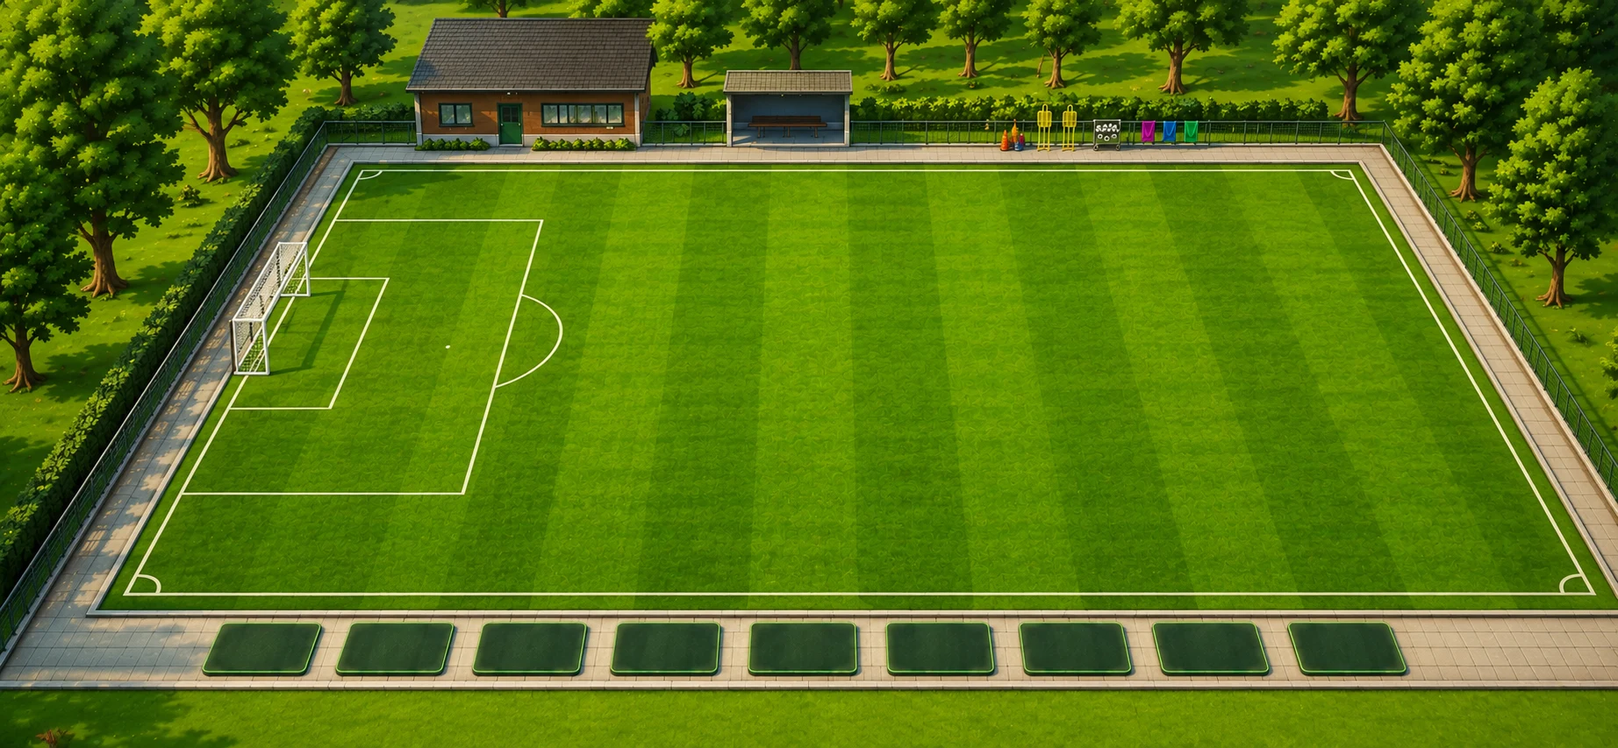
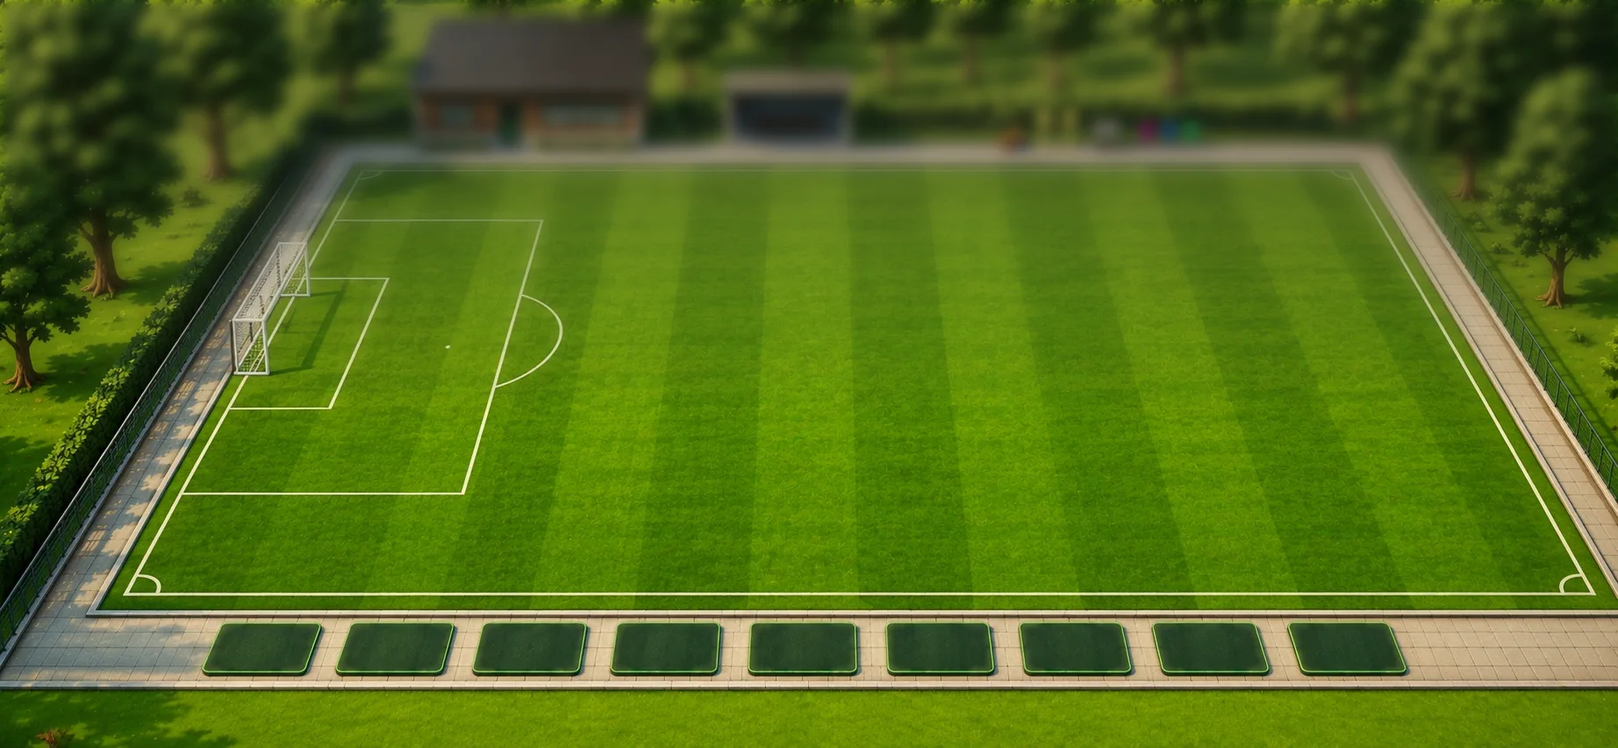
Phase 3 : la lumière — ombres de contact, éclairage du haut, décors reculés
(a) Les ombres de contact. L'ombre d'une silhouette est dense au point
d'appui et se dissout vite (une ombre uniforme fait flotter) et suit la
hauteur du joueur, donc ses étoiles. Elle reste un REPLI, qui disparaît
dès qu'une ombre en fichier existe.

    Leçon de mise en œuvre, attrapée par la recette : cette règle ne peut
    pas s'écrire en annulation après coup — la première règle plus
    spécifique ajoutée ailleurs la bat, et c'est exactement ce qui est
    arrivé en ajoutant l'ombre du décor peint (le joueur portait alors
    DEUX ombres). Elle s'écrit dans le sélecteur (:not(.avec-ombre)), et
    une recette vérifie qu'un joueur n'a jamais deux ombres au sol.
    Corollaire corrigé au passage : la sélection reste visible AU SOL dans
    les deux cas — liseré vert pour l'ombre dessinée, ombre qui s'allume
    en vert pour l'ombre de fichier.

(b) Une direction d'éclairage unique, du haut. Trois niveaux d'élévation
et trois seulement, en jetons de style (--elev-pose / --elev-panneau /
--elev-modale) plus une arête haute commune : un composant déclare son
niveau, il n'invente jamais son ombre. Un vide prend l'inverse (ombre
interne en haut, lumière en bas) : un emplacement libre se lit comme un
trou.

(c) Reculer les décors, sans flou en temps réel. Le décor occupant les
trois quarts de l'écran depuis la phase 1, un flou live y coûterait cher
sur mobile : flou, désaturation et assombrissement de la distance sont
[…]

Changed region(s): [[0.0, 0.0, 1.0, 0.4877], [0.0, 0.3962, 0.0309, 0.4267]]

diff --git a/partie.html b/partie.html
@@ -149,7 +149,7 @@
     #app.scene-pleine .col-classement .coach-ligne {
       background: linear-gradient(180deg, rgba(9, 20, 12, 0.86), rgba(5, 12, 7, 0.90));
       border: 1px solid rgba(160, 200, 168, 0.22); border-radius: 8px;
-      box-shadow: inset 0 1px 0 rgba(200, 240, 210, 0.14), 0 4px 12px rgba(0, 0, 0, 0.55);
+      box-shadow: var(--arete-haute), var(--elev-pose);
       backdrop-filter: blur(4px);
       text-shadow: 0 1px 3px rgba(0, 0, 0, 0.95);
     }
@@ -164,21 +164,31 @@
     #app.scene-pleine .col-synergies > button {
       background: linear-gradient(180deg, rgba(9, 20, 12, 0.88), rgba(5, 12, 7, 0.92)) !important;
       border: 1px solid rgba(160, 200, 168, 0.22) !important; border-radius: 999px !important;
-      box-shadow: inset 0 1px 0 rgba(200, 240, 210, 0.14), 0 3px 10px rgba(0, 0, 0, 0.5);
+      box-shadow: var(--arete-haute), var(--elev-pose);
       color: var(--craie-claire) !important; backdrop-filter: blur(4px);
     }
     .indice-synergies { color: var(--craie-sourde); font-size: 0.62rem; display: block; line-height: 1.35; }
     #app.scene-pleine .indice-synergies {
       background: linear-gradient(180deg, rgba(9, 20, 12, 0.86), rgba(5, 12, 7, 0.90));
       border: 1px solid rgba(160, 200, 168, 0.20); border-radius: 8px; padding: 5px 7px;
-      box-shadow: inset 0 1px 0 rgba(200, 240, 210, 0.12), 0 4px 12px rgba(0, 0, 0, 0.55);
+      box-shadow: var(--arete-haute), var(--elev-pose);
       backdrop-filter: blur(4px); text-shadow: 0 1px 3px rgba(0, 0, 0, 0.95);
     }
     #app.scene-pleine #page-staff {
       background: linear-gradient(180deg, rgba(9, 20, 12, 0.90), rgba(5, 12, 7, 0.93));
       border: 1px solid rgba(160, 200, 168, 0.20); border-radius: 10px; padding: 6px 7px;
-      box-shadow: inset 0 1px 0 rgba(200, 240, 210, 0.12), 0 6px 16px rgba(0, 0, 0, 0.6);
+      box-shadow: var(--arete-haute), var(--elev-panneau);
       backdrop-filter: blur(5px); max-height: 100%; overflow-y: auto;
+    }
+    /* LA VIGNETTE (phase 3, « reculer les décors ») : les bords du cadre
+       s'assombrissent doucement, le premier plan ressort. Un dégradé
+       radial statique — donc gratuit, contrairement à un flou en temps
+       réel sur les trois quarts de l'écran. Le flou et la désaturation de
+       la distance, eux, sont CUITS DANS LES IMAGES (design/terrains). */
+    #app.scene-pleine .plateau::after {
+      content: ""; position: absolute; inset: 0; pointer-events: none; z-index: 4;
+      background: radial-gradient(ellipse 96% 108% at 50% 62%,
+        rgba(0, 0, 0, 0) 52%, rgba(0, 0, 0, 0.20) 78%, rgba(0, 0, 0, 0.42) 100%);
     }
     /* le voile du bas : la boutique et le banc se détachent du gazon sans
        qu'aucune boîte ne soit dessinée — un dégradé, pas un rectangle */
@@ -274,6 +284,7 @@
     .plateau.terrain-peint .case-vide {
       border-color: rgba(237, 245, 236, 0.55); background: rgba(6, 13, 8, 0.30);
       color: rgba(237, 245, 236, 0.75); text-shadow: 0 1px 2px #000;
+      box-shadow: inset 0 6px 10px rgba(0, 0, 0, 0.35), inset 0 -1px 0 rgba(214, 245, 222, 0.10);
     }
     .plateau.terrain-peint.decor-clair .case-vide {
       border-color: rgba(6, 13, 8, 0.55); background: rgba(6, 13, 8, 0.18);
@@ -317,19 +328,31 @@
     }
     /* dès qu'une ombre de fichier est là, l'ombre DESSINÉE s'efface :
        jamais les deux, sinon le joueur porte deux ombres */
-    .jeton.figurine.avec-ombre::before { content: none; }
+    /* (la règle « jamais deux ombres » est portée par le :not() de chaque
+       sélecteur d'ombre dessinée — voir plus bas — et non par une
+       annulation après coup : une annulation se fait battre par la
+       première règle plus spécifique qu'on ajoute ailleurs, et c'est
+       exactement ce qui vient d'arriver.) */
     /* la SILHOUETTE NEUTRE : même gabarit, même ligne de sol qu'une
        illustration — teintée du poste pour qu'elle reste informative */
     .jeton.figurine .frontale.silhouette {
       fill: var(--teinte-pleine, #8FA492);
       stroke: rgba(4, 12, 6, 0.85); stroke-width: 2.4; paint-order: stroke;
     }
-    /* l'ombre de contact : c'est elle qui POSE le joueur */
-    .jeton.figurine::before {
+    /* L'OMBRE DE CONTACT (phase 3) : c'est elle qui POSE le joueur.
+       Elle est DENSE au point d'appui et se dissout vite — une ombre
+       uniforme fait flotter. Elle suit la hauteur de la silhouette, donc
+       le niveau d'étoiles : un 3★ projette une ombre plus large, et son
+       cœur reste aussi serré.
+       ATTENTION — c'est un REPLI : dès qu'une ombre en fichier existe
+       (silhouettes de trois quarts), celle-ci disparaît. Les deux ne
+       coexistent jamais, la règle est tenue par .avec-ombre::before. */
+    .jeton.figurine:not(.avec-ombre)::before {
       content: ""; position: absolute; left: 50%; transform: translateX(-50%);
       bottom: calc(var(--sol, 2px) - 2px);
       width: var(--l-ombre, 68%); height: var(--h-ombre, 8px); border-radius: 50%;
-      background: radial-gradient(ellipse at center, rgba(0, 0, 0, 0.62) 0%, rgba(0, 0, 0, 0.28) 55%, rgba(0, 0, 0, 0) 78%);
+      background: radial-gradient(ellipse at center,
+        rgba(0, 0, 0, 0.72) 0%, rgba(0, 0, 0, 0.48) 34%, rgba(0, 0, 0, 0.18) 62%, rgba(0, 0, 0, 0) 80%);
       pointer-events: none; z-index: 0;
     }
     /* LE 3★ : le sol s'illumine en or — pas d'étoile, pas de cadre
@@ -345,9 +368,16 @@
     @keyframes auraLegende { 0%, 100% { opacity: 0.75; } 50% { opacity: 1; } }
     /* LA SÉLECTION : un liseré lumineux AU SOL, jamais un cadre */
     .jeton.figurine.choisi { outline: none; }
-    .jeton.figurine.choisi::before {
+    .jeton.figurine.choisi:not(.avec-ombre)::before {
       background: radial-gradient(ellipse at center, rgba(61, 226, 107, 0.85) 0%, rgba(61, 226, 107, 0.35) 52%, rgba(61, 226, 107, 0) 76%);
       box-shadow: 0 0 12px rgba(61, 226, 107, 0.65);
+    }
+    /* LA SÉLECTION QUAND L'OMBRE EST UN FICHIER : le liseré au sol ne peut
+       plus passer par le ::before (il n'existe plus), alors c'est l'ombre
+       elle-même qui s'allume en vert. Le repère reste AU SOL, jamais un
+       cadre autour du joueur — la règle de la décision 39 ne bouge pas. */
+    .jeton.figurine.avec-ombre.choisi .ombre-sol {
+      filter: drop-shadow(0 0 7px rgba(61, 226, 107, 0.95)) drop-shadow(0 0 14px rgba(61, 226, 107, 0.55));
     }
     /* LA DALLE DU BANC : teintée du poste, franche mais assourdie —
        elle informe, elle ne concurrence ni le maillot ni les coûts */
@@ -356,7 +386,7 @@
         linear-gradient(180deg, rgba(255, 255, 255, 0.20) 0%, rgba(255, 255, 255, 0) 46%),
         linear-gradient(180deg, var(--teinte-poste, rgba(122, 138, 124, 0.6)) 0%, var(--teinte-basse, rgba(6, 13, 8, 0.85)) 100%);
       border-radius: 5px;
-      box-shadow: inset 0 1px 0 rgba(255, 255, 255, 0.25), 0 3px 8px rgba(0, 0, 0, 0.6);
+      box-shadow: var(--arete-haute-forte), var(--elev-pose);
     }
     /* les quatre teintes de poste : franches (on doit les nommer d'un coup
        d'œil) mais assourdies — elles informent, elles ne concurrencent ni
@@ -367,16 +397,25 @@
     .jeton.figurine.p-ATT { --teinte-poste: rgba(232, 80, 63, 0.72); --teinte-basse: rgba(104, 28, 20, 0.72); --teinte-pleine: #DE6350; }
     /* une dalle VIDE : visible, sombre et neutre — c'est elle qui rend
        le glisser-déposer lisible */
+    /* UN VIDE SE LIT COMME UN TROU (matière « creux ») : ombre interne en
+       haut, lumière en bas — l'inverse exact d'un objet posé. */
     .place-banc {
       flex: 0 0 56px; min-height: 52px; border: none; border-radius: 5px;
-      background: linear-gradient(180deg, rgba(255, 255, 255, 0.07) 0%, rgba(6, 13, 8, 0.62) 42%, rgba(6, 13, 8, 0.78) 100%);
-      box-shadow: inset 0 1px 0 rgba(255, 255, 255, 0.10), inset 0 6px 10px rgba(0, 0, 0, 0.5);
+      background: linear-gradient(180deg, rgba(6, 13, 8, 0.80) 0%, rgba(6, 13, 8, 0.62) 58%, rgba(255, 255, 255, 0.06) 100%);
+      box-shadow: inset 0 7px 11px rgba(0, 0, 0, 0.62), inset 0 -1px 0 rgba(214, 245, 222, 0.14);
     }
     /* l'ombre au sol : ce qui POSE la silhouette sur le gazon */
-    .plateau.terrain-peint .jeton.figurine::before {
+    .plateau.terrain-peint .jeton.figurine:not(.avec-ombre)::before {
       content: ""; position: absolute; left: 12%; right: 12%; bottom: -3px; height: 7px;
       border-radius: 50%; background: radial-gradient(ellipse at center, rgba(0, 0, 0, 0.55), rgba(0, 0, 0, 0));
       pointer-events: none;
+    }
+    /* …et la SÉLECTION reprend la main sur ce fond : sans cette règle,
+       posée APRÈS celle du décor peint, le liseré vert au sol se faisait
+       écraser par l'ombre du terrain et il ne restait que la lueur. */
+    .plateau.terrain-peint .jeton.figurine.choisi:not(.avec-ombre)::before {
+      background: radial-gradient(ellipse at center,
+        rgba(61, 226, 107, 0.85) 0%, rgba(61, 226, 107, 0.35) 52%, rgba(61, 226, 107, 0) 76%);
     }
     .rangee-banc {
       flex: 0 0 auto; display: flex; gap: 4px; overflow-x: auto; overflow-y: hidden;
@@ -403,7 +442,9 @@
     /* ---- Pendant le match : tableau + journal sur le terrain ---- */
     .tableau-match {
       position: absolute; top: 6px; left: 50%; transform: translateX(-50%);
-      background: #060D08E8; border: 1px solid var(--ligne); border-radius: 9px;
+      background: linear-gradient(180deg, rgba(12, 26, 15, 0.93), rgba(6, 13, 8, 0.95));
+      border: 1px solid var(--ligne); border-radius: 9px;
+      box-shadow: var(--arete-haute), var(--elev-panneau);
       padding: 3px 12px; z-index: 5; text-align: center; font-size: 0.64rem;
       color: var(--craie-sourde); white-space: nowrap;
     }
@@ -434,10 +475,16 @@
     /* ---- LA BOUTIQUE FAÇON TFT MOBILE (sprint post-playtest, point 2) :
        bande basse généreuse (~30 % de l'écran ouverte), XP + odds à
        gauche, or en médaillon central, refresh + verrou à droite. ---- */
+    /* LA BANDE DE BOUTIQUE : la plaque de premier plan de la scène.
+       Éclairée du haut comme tout le reste — arête haute claire, dégradé
+       vertical discret — et elle porte son ombre SUR le décor qui passe
+       derrière elle, ce qui la détache sans dessiner de boîte. */
     .boutique-barre {
       flex: 0 0 auto; display: flex; gap: 6px; align-items: stretch;
       min-height: max(96px, 30vh);
-      background: var(--nuit-profonde); border-top: 1px solid var(--ligne);
+      background: linear-gradient(180deg, #0A150C 0%, var(--nuit-profonde) 42%, #040905 100%);
+      border-top: 1px solid rgba(214, 245, 222, 0.10);
+      box-shadow: var(--arete-haute-forte), 0 -10px 24px rgba(0, 0, 0, 0.55);
       padding: 10px 8px calc(6px + env(safe-area-inset-bottom));
     }
     .medaillon-or {
@@ -446,7 +493,7 @@
       background: var(--nuit-profonde); border: 1.5px solid var(--or-trophee);
       border-radius: var(--r-pilule); padding: 2px 12px;
       font-weight: 800; font-size: 0.85rem; font-variant-numeric: tabular-nums; color: var(--or-trophee);
-      box-shadow: 0 0 14px rgba(242, 193, 78, 0.35);
+      box-shadow: var(--arete-haute-forte), var(--elev-pose), 0 0 14px rgba(242, 193, 78, 0.35);
     }
     .medaillon-or .piece {
       width: 16px; height: 16px; border-radius: 50%; background: var(--orbe-or);
@@ -483,7 +530,8 @@
       border-radius: var(--r-carte);
       padding: 4px 6px 3px; font-size: 0.56rem; color: var(--craie-claire); cursor: pointer; line-height: 1.2;
       display: flex; flex-direction: column; gap: 1px;
-      box-shadow: var(--ombre-carte);
+      /* éclairée du haut : arête haute claire, ombre portée vers le bas */
+      box-shadow: var(--arete-haute), var(--elev-panneau);
     }
     .carte-boutique.cout-0 { --couleur-cout: #5F7A64; }
     .carte-boutique.cout-1 { --couleur-cout: var(--cout-1); }
@@ -491,7 +539,7 @@
     .carte-boutique.cout-3 { --couleur-cout: var(--cout-3); }
     .carte-boutique.cout-4 { --couleur-cout: var(--cout-4); }
     .carte-boutique.cout-5 { --couleur-cout: var(--cout-5); background: var(--fond-carte-or);
-      box-shadow: 0 0 14px rgba(242, 193, 78, 0.35), var(--ombre-carte); }
+      box-shadow: 0 0 14px rgba(242, 193, 78, 0.35), var(--arete-haute), var(--elev-panneau); }
     /* la gemme de coût sur l'épaule droite */
     .carte-boutique .gemme { position: absolute; top: -7px; right: 8px; width: 13px; height: 13px;
       transform: rotate(45deg); background: var(--couleur-cout, var(--cout-1)); border-radius: 2px;
@@ -792,7 +840,9 @@
       border: 2px solid var(--ligne-forte); border-radius: var(--r-panneau);
       width: 100%; max-width: 420px; max-height: 92vh; overflow-y: auto;
       padding: 14px; animation: apparait 0.25s ease; font-size: 0.8rem;
-      box-shadow: var(--ombre-panneau);
+      /* niveau MODALE : elle prend la main, elle porte l'ombre la plus
+         franche — et la même arête haute que tout le reste */
+      box-shadow: var(--arete-haute-forte), var(--elev-modale);
     }
     .volet .panneau > strong:first-child { font-family: var(--police-display); font-weight: 400;
       font-size: 0.95rem; display: inline-block; transform: var(--pente); }

diff --git a/tests/rendu.spec.js b/tests/rendu.spec.js
@@ -358,7 +358,10 @@ async function varianceZone(page, clip) {
           jeton: { centre: rj.x + rj.width / 2, bas: rj.bottom },
           hauteurVisuel: ri ? ri.height : 0,
           ombre: ro ? { l: ro.width, y: ro.y + ro.height / 2, centre: ro.x + ro.width / 2 } : null,
-          ombreDessinee: st.getPropertyValue("content") !== "none" && !j.classList.contains("avec-ombre"),
+          // l'ombre DESSINÉE vit dans le ::before : on lit le pseudo-élément
+          // lui-même, sinon on ne mesure rien (la première version lisait
+          // le « content » de l'élément, qui ne veut rien dire ici)
+          ombreDessinee: getComputedStyle(j, "::before").content !== "none",
           avecOmbre: j.classList.contains("avec-ombre"),
         };
       });
@@ -382,6 +385,14 @@ async function varianceZone(page, clip) {
     verifier(`ombre en fichier : servie aux joueurs qui en ont une (${avecOmbre.length}), ` +
       `l'ombre dessinée reste aux autres (${sansOmbre.length})`,
       avecOmbre.length === 3 && sansOmbre.length === 1 && avecOmbre.every((m) => m.ombre && m.ombre.l > 4));
+    /* LA RÈGLE QUI NE DOIT JAMAIS CÉDER : une seule ombre au sol par
+       joueur. L'ombre dessinée est un REPLI — dès qu'un fichier existe
+       elle disparaît, et elle reste pour ceux qui n'en ont pas. Deux
+       ombres superposées feraient une tache, et personne ne le verrait
+       venir en ajoutant des ombres ailleurs dans l'interface. */
+    verifier("une seule ombre au sol par joueur : le fichier chasse l'ombre dessinée, jamais les deux",
+      avecOmbre.every((m) => !m.ombreDessinee) && sansOmbre.every((m) => m.ombreDessinee),
+      JSON.stringify(mesures.map((m) => [m.avecOmbre, m.ombreDessinee])));
     const un = avecOmbre.find((m) => Math.round(m.hauteurVisuel) > 0 && m.ombre && m.ancrage.y === 0.82 && m.hauteurVisuel < 60);
     const trois = avecOmbre[avecOmbre.length - 1];
     const rapport = un && trois ? trois.ombre.l / un.ombre.l : 0;
@@ -392,6 +403,29 @@ async function varianceZone(page, clip) {
     const malPosees = avecOmbre.filter((m) => Math.abs(m.ombre.y - m.appui.y) > 2 || Math.abs(m.ombre.centre - m.jeton.centre) > 2);
     verifier("ombre en fichier : elle est centrée sur le point d'appui", malPosees.length === 0,
       JSON.stringify(malPosees.map((m) => [Math.round(m.ombre.y - m.appui.y), Math.round(m.ombre.centre - m.jeton.centre)])));
+    /* La sélection doit rester visible AU SOL même quand l'ombre dessinée
+       a disparu : sans ça, un joueur à ombre de fichier n'aurait plus
+       aucun retour visuel quand on le choisit. */
+    const selection = await page.evaluate(async () => {
+      const jetons = [...document.querySelectorAll("#banc .jeton.figurine")];
+      const avec = jetons.find((j) => j.classList.contains("avec-ombre"));
+      const sans = jetons.find((j) => !j.classList.contains("avec-ombre"));
+      const lire = (j) => {
+        j.classList.add("choisi");
+        const st = getComputedStyle(j.querySelector("img.ombre-sol") || j);
+        const pseudo = getComputedStyle(j, "::before");
+        // le repère au sol est vert, qu'il passe par le fond du pseudo,
+        // sa lueur, ou le filtre de l'ombre-fichier
+        const vert = /61, ?226, ?107/;
+        const marque = (st.filter && st.filter !== "none") ||
+          vert.test(pseudo.backgroundImage || "") || vert.test(pseudo.boxShadow || "");
+        j.classList.remove("choisi");
+        return marque;
+      };
+      return { avecOmbre: lire(avec), sansOmbre: lire(sans) };
+    });
+    verifier("sélection : le repère reste AU SOL, ombre de fichier comprise",
+      selection.avecOmbre && selection.sansOmbre, JSON.stringify(selection));
     verifier("silhouettes de trois quarts : zéro erreur JS", erreursJS.length === 0, erreursJS.slice(0, 2).join(" | "));
     await page.close();
   }

diff --git a/tests/perf.spec.js b/tests/perf.spec.js
@@ -77,6 +77,58 @@ const verifier = (nom, ok, detail) => {
   const scenes = await page.evaluate(() => document.querySelectorAll(".scene-match").length);
   verifier("une seule scène vivante au plus", scenes <= 1, String(scenes));
 
+  /* ---- L'ÉCRAN DE PLACEMENT, sur les trois décors (phase 3) ----
+     Le décor occupe désormais les trois quarts de l'écran : un flou en
+     temps réel y coûterait cher sur mobile. Le recul de la distance est
+     donc CUIT DANS LES IMAGES — cette recette le vérifie (aucun filtre de
+     flou sur la couche de décor) et mesure les images par seconde sur les
+     trois terrains, effectif complet à l'écran. */
+  for (const [id, nom] of [["emeraude", "Grand Soir"], ["theatre", "Boxing Day"], ["bitumeNeon", "City Stade"]]) {
+    const page = await (await browser.newContext({ viewport: { width: 844, height: 390 } })).newPage();
+    await page.addInitScript((s2) => { try {
+      localStorage.setItem("onze-tutoriel-vu", "1");
+      localStorage.setItem("onze-reglages-match", JSON.stringify({ stade: s2 }));
+    } catch (e) {} }, id);
+    await page.goto("http://localhost:8123/partie.html");
+    await page.waitForSelector("#boutique .carte-boutique", { timeout: 15000 });
+    const mesure = await page.evaluate(async () => {
+      arreterChrono();
+      partie.niveau = 10;
+      const art = tousLesJoueurs.filter((j) => ONZE_PORTRAITS.frontale(j));
+      partie.terrain = art.slice(0, 11).map((f, i) => ({ ...f, etoiles: (i % 3) + 1, uid: "P" + i,
+        ligne: ["GAR", "DÉF", "MIL", "ATT"][i === 0 ? 0 : 1 + (i % 3)] }));
+      partie.banc = art.slice(11, 20).map((f, i) => ({ ...f, etoiles: (i % 3) + 1, uid: "B" + i }));
+      afficher();
+      const im = document.getElementById("fond-terrain");
+      if (im && !im.complete) await new Promise((r) => { im.onload = r; im.onerror = r; });
+      await new Promise((r) => setTimeout(r, 400));
+      // aucun flou EN TEMPS RÉEL sur la grande surface de décor
+      const st = getComputedStyle(im);
+      const flouDecor = /blur/.test(st.filter) || /blur/.test(st.backdropFilter || "");
+      const plateau = getComputedStyle(document.getElementById("plateau"));
+      const flouPlateau = /blur/.test(plateau.filter) || /blur/.test(plateau.backdropFilter || "");
+      // les trames, pendant que l'aura du 3★ anime la scène
+      const trames = [];
+      await new Promise((fini) => {
+        let precedent = performance.now(), n = 0;
+        const tic = (t) => {
+          trames.push(t - precedent); precedent = t;
+          if (++n < 150) requestAnimationFrame(tic); else fini();
+        };
+        requestAnimationFrame(tic);
+      });
+      trames.sort((a, b) => a - b);
+      return { flouDecor, flouPlateau, figurines: document.querySelectorAll(".jeton.figurine").length,
+        p50: trames[Math.floor(trames.length * 0.5)], p95: trames[Math.floor(trames.length * 0.95)] };
+    });
+    verifier(`${nom} : aucun flou en temps réel sur le décor (il est cuit dans l'image)`,
+      !mesure.flouDecor && !mesure.flouPlateau, JSON.stringify(mesure));
+    verifier(`${nom} : écran de placement fluide avec ${mesure.figurines} figurines ` +
+      `(p50 ${mesure.p50.toFixed(1)} ms · p95 ${mesure.p95.toFixed(1)} ms ≤ 20)`,
+      mesure.p95 <= 20, `p95 ${mesure.p95.toFixed(1)} ms`);
+    await page.close();
+  }
+
   await browser.close();
   console.log(echecs ? `\n${echecs} échec(s)` : "\nProfiling ✅");
   process.exit(echecs ? 1 : 0);

diff --git a/onze.css b/onze.css
@@ -47,6 +47,24 @@
   --lueur-horsposte: 0 0 0 2.5px #FF9D3C, 0 0 12px rgba(255, 157, 60, 0.8);
   --ombre-carte: 0 6px 16px rgba(0, 0, 0, 0.5);
   --ombre-panneau: 0 20px 60px rgba(0, 0, 0, 0.7);
+  /* ---- LA LUMIÈRE VIENT DU HAUT (phase 3 de l'habillage) ----
+     Une seule direction d'éclairage pour tout le jeu : les décors sont
+     éclairés par les projecteurs, donc tout objet d'interface prend un
+     liseré clair sur son arête HAUTE et pose son ombre VERS LE BAS.
+     Trois niveaux d'élévation, et trois seulement — un composant déclare
+     son niveau, il n'invente jamais son ombre :
+       posé    : sur la scène (jetons, dalles, pastilles flottantes)
+       panneau : ce qui se pose par-dessus la scène (barres, volets)
+       modale  : ce qui prend la main (fiches, bannières, voiles)
+     L'arête haute est le même liseré partout, à trois intensités. */
+  --elev-pose: 0 4px 10px rgba(0, 0, 0, 0.50);
+  --elev-panneau: 0 8px 22px rgba(0, 0, 0, 0.58);
+  --elev-modale: 0 20px 60px rgba(0, 0, 0, 0.70);
+  --arete-haute: inset 0 1px 0 rgba(214, 245, 222, 0.16);
+  --arete-haute-forte: inset 0 1px 0 rgba(226, 250, 232, 0.34);
+  --arete-basse: inset 0 -1px 0 rgba(0, 0, 0, 0.45);
+  /* le dégradé vertical très léger que porte toute matière de chrome */
+  --pente-lumiere: linear-gradient(180deg, rgba(255, 255, 255, 0.055), rgba(0, 0, 0, 0.06));
   --relief-bouton: inset 0 -5px 0 rgba(0, 0, 0, 0.25);
   --relief-pion: inset 0 -6px 8px rgba(0, 0, 0, 0.4), 0 3px 6px rgba(0, 0, 0, 0.5);
   /* ---- rayons & dimensions ---- */

diff --git a/design/decisions.md b/design/decisions.md
@@ -123,6 +123,14 @@ Registre des décisions actées. Une décision qui n'est pas ici n'existe pas.
 
 49. **Les silhouettes partagent la caméra du terrain, et l'ombre est un fichier (DA S2, actée août 2026).** Les unités étaient dessinées **de face, à hauteur d'œil**, alors que le terrain est vu **d'en haut en perspective** : deux caméras différentes, d'où l'impression de figurines plates collées sur une photo. La caméra du terrain n'est pas une intention mais une **mesure relevée sur les trois décors peints** — largeur du rectangle de jeu (104 m) contre sa hauteur à l'écran (68 m) : **plongée de 31,3° à 33,0°**, soit ~32°. Les silhouettes se redessinent depuis ce point de vue, tournées de trois quarts. **Deux conséquences d'architecture, posées AVANT les images pour n'avoir aucune reprise à faire :** (a) **l'ombre au sol devient un fichier à part** (`ombre` dans la table) — elle se redimensionne avec le niveau d'étoiles comme la silhouette, elle garde la forme que le dessinateur lui donne (un cercle flou n'est pas une ombre de trois quarts), et un joueur sans fichier garde l'ombre dessinée en CSS ; (b) **le POINT D'APPUI est déclaré** (`ancrage`, en parts de l'image) et c'est **lui** qu'on cale sur la ligne de sol, jamais le bord de l'image — changer les proportions d'un visuel ne déplace donc plus personne. Les deux champs sont **facultatifs** et une valeur abîmée est ignorée : la table s'édite à la main, le jeu doit tourner quoi qu'il arrive. Le cahier des charges complet (gabarits, mesure du point d'appui, nommage) vit dans **`design/silhouettes.md`**. Recettes : le point d'appui tient la ligne de sol quel que soit l'ancrage (vue rouge à 14 px d'écart en faisant ignorer l'ancrage au code), l'ombre de fichier remplace l'ombre dessinée et grandit avec les étoiles (rapport 1,38 mesuré), et un ancrage aberrant est refusé — il ne casse rien à l'écran, il décale un joueur en silence.
 
+50. **La lumière vient du haut, et la distance est CUITE dans les images (phase 3 du chantier d'habillage, actée août 2026).** Trois gestes, appliqués partout et déclarés une seule fois.
+
+    **(a) Les ombres de contact.** L'ombre d'une silhouette est **dense au point d'appui et se dissout vite** — une ombre uniforme fait flotter — et elle suit la hauteur du joueur, donc son niveau d'étoiles. Elle reste ce qu'elle est : un **repli**, qui disparaît dès qu'une ombre en fichier existe (décision 49). Leçon de la mise en œuvre : cette règle **ne peut pas s'écrire en annulation après coup** (`.avec-ombre::before { content: none }`) — la première règle plus spécifique ajoutée ailleurs la bat, et c'est exactement ce qui est arrivé en ajoutant l'ombre du décor peint. Elle s'écrit **dans le sélecteur lui-même** (`:not(.avec-ombre)`), et une recette vérifie qu'un joueur n'a **jamais deux ombres au sol**.
+
+    **(b) Une direction d'éclairage unique.** Trois niveaux d'élévation et trois seulement, déclarés en jetons de style (`--elev-pose`, `--elev-panneau`, `--elev-modale`), plus une arête haute commune (`--arete-haute`) : **un composant déclare son niveau, il n'invente jamais son ombre**. Tout ce qui est posé prend son liseré clair en haut et pose son ombre vers le bas ; un **vide** prend l'inverse (ombre interne en haut, lumière en bas) — c'est ce qui fait qu'un emplacement libre se lit comme un trou.
+
+    **(c) Reculer les décors, sans flou en temps réel.** Le décor occupant les trois quarts de l'écran depuis la phase 1, un flou live y coûterait cher sur mobile : le flou, la désaturation et l'assombrissement de la distance sont **cuits dans les images** (`da/terrains/`), à pleine force en haut du cadre et **nuls dès le milieu du terrain** — les mats peints restent parfaitement nets, ce dont dépend l'alignement du banc. Seule la **vignette** reste en CSS : un dégradé radial statique, gratuit. Conséquence heureuse : le flou compresse bien, les décors passent de 76-132 Ko à **42-79 Ko** en densité 1. **Recettes** : aucune couche de décor ne porte de filtre de flou en temps réel, et les images par seconde sont mesurées sur les trois terrains avec l'effectif complet à l'écran — **60 fps tenus (p95 16,7 ms)**.
+
 ## Backlog priorisé (battue TFT, août 2026 — dans cet ordre)
 
 1. ✅ **Le clone fantôme** (fait) : nombre impair de survivants → au lieu d'un exempt, un coach affronte « l'équipe B » (le clone) d'un club vivant, traitée comme une entité à part entière dans l'appariement.
